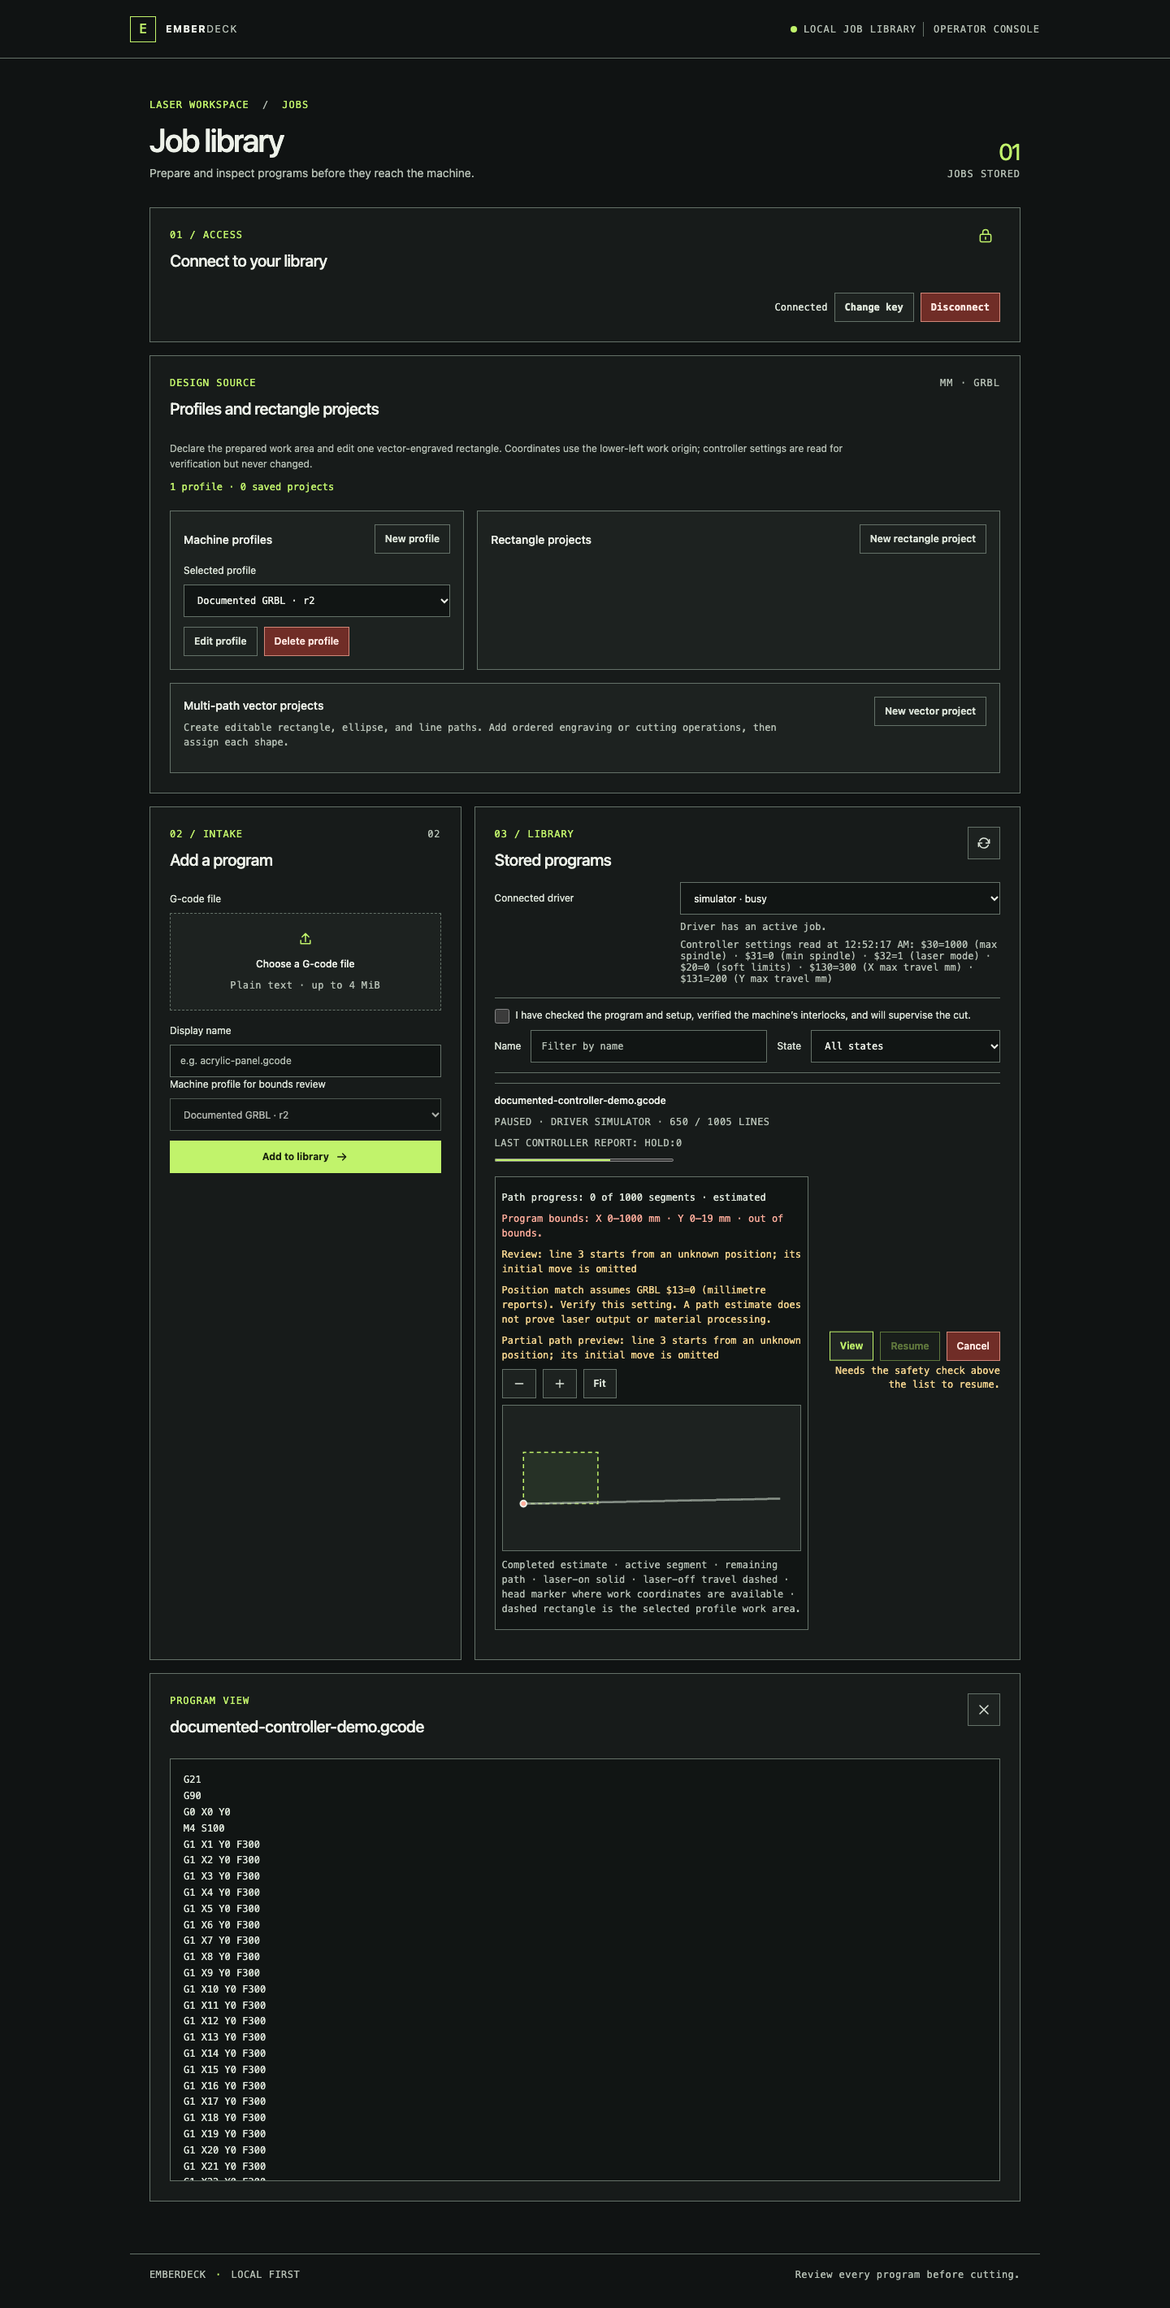
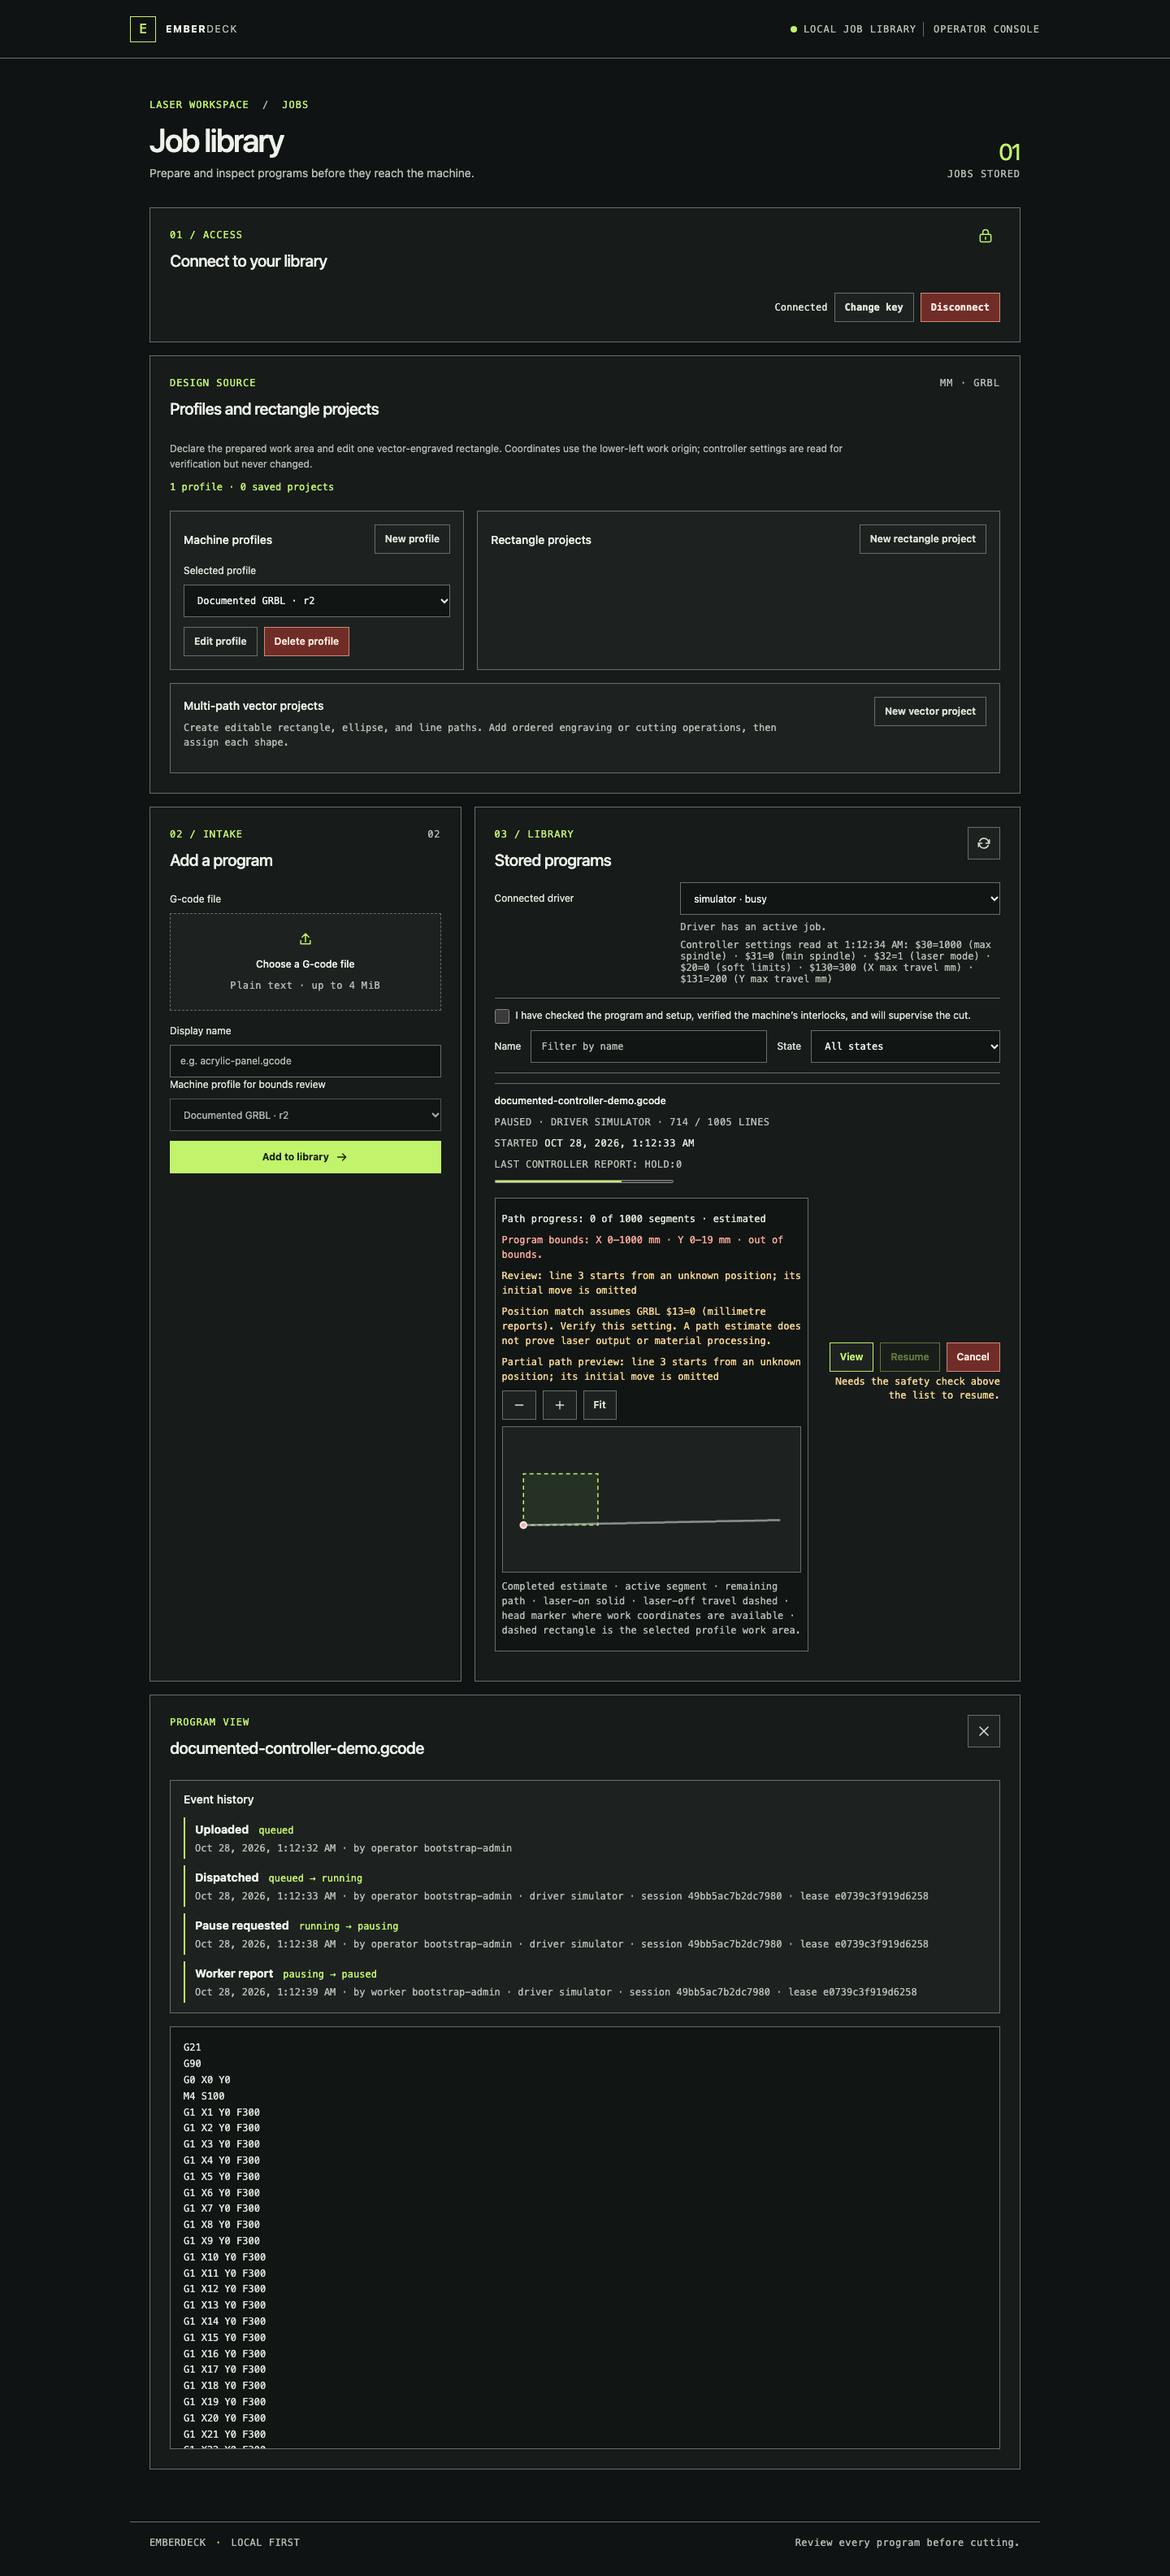
fix: style job history with console design tokens

diff --git a/internal/server/assets/job-history.css b/internal/server/assets/job-history.css
@@ -1,12 +1,14 @@
-.job-times{color:#aab3a7}
-.job-times time{color:var(--text)}
-.job-history{margin:0 0 14px;border:1px solid var(--line);background:#121713;padding:12px 14px}
+/* Job run times and event history. Colours and sizes come only from the
+   semantic tokens defined in style.css :root. */
+.job-times{color:var(--text-muted);font-size:var(--type-xs)}
+.job-times time{color:var(--text-secondary)}
+.job-history{margin:0 0 var(--space-4);border:1px solid var(--border);background:var(--surface-inset);padding:var(--space-3) var(--space-4)}
 .job-history[hidden]{display:none}
-.job-history-title{margin:0 0 10px;font-size:13px;font-weight:500;letter-spacing:.02em}
-.job-history-empty{margin:0;color:var(--muted);font-size:12px}
-.job-history-list{list-style:none;margin:0;padding:0;display:grid;gap:8px}
-.job-history-event{border-left:2px solid var(--green-dark);padding:4px 0 4px 10px;min-width:0}
-.job-history-head{display:flex;flex-wrap:wrap;gap:4px 10px;align-items:baseline;font-size:13px}
-.job-history-states{font-family:var(--mono);font-size:11px;color:var(--green)}
-.job-history-meta{font-family:var(--mono);font-size:10px;color:var(--muted);margin-top:3px;overflow-wrap:anywhere}
-.job-history-detail{margin:4px 0 0;color:var(--red);font-size:12px;overflow-wrap:anywhere}
+.job-history-title{margin:0 0 var(--space-3);font-size:var(--type-sm);font-weight:500;color:var(--text-primary)}
+.job-history-empty{margin:0;color:var(--text-muted);font-size:var(--type-xs)}
+.job-history-list{list-style:none;margin:0;padding:0;display:grid;gap:var(--space-2)}
+.job-history-event{border-left:2px solid var(--accent);padding:var(--space-1) 0 var(--space-1) var(--space-3);min-width:0}
+.job-history-head{display:flex;flex-wrap:wrap;gap:var(--space-1) var(--space-3);align-items:baseline;font-size:var(--type-sm);color:var(--text-primary)}
+.job-history-states{font-family:var(--mono);font-size:var(--type-xs);color:var(--accent)}
+.job-history-meta{font-family:var(--mono);font-size:var(--type-xs);color:var(--text-muted);margin-top:var(--space-1);overflow-wrap:anywhere}
+.job-history-detail{margin:var(--space-1) 0 0;color:var(--danger);font-size:var(--type-xs);overflow-wrap:anywhere}

diff --git a/e2e/job-history.spec.js b/e2e/job-history.spec.js
@@ -61,6 +61,31 @@ test('job list shows run times and the job view shows the event history', async 
   await expect(entries.nth(2)).toContainText('running → completed');
   await expect(entries.nth(2)).toContainText('worker');
 
+  // History styles follow the console token system: no colour literals,
+  // text at least 12 px, and WCAG AA contrast against the painted background.
+  const css = await page.evaluate(async () => (await fetch('/job-history.css')).text());
+  expect([...css.matchAll(/#[\da-f]{3,8}\b|\b(?:rgb|hsl)a?\s*\(/gi)].map(([literal]) => literal)).toEqual([]);
+  const failures = await page.evaluate(() => {
+    const parse = (value) => (value.match(/[\d.]+/g) || [0, 0, 0, 0]).map(Number);
+    const luminance = ([r, g, b]) => [r, g, b].map((v) => v / 255).map((v) => (v <= 0.04045 ? v / 12.92 : ((v + 0.055) / 1.055) ** 2.4)).reduce((sum, v, i) => sum + v * [0.2126, 0.7152, 0.0722][i], 0);
+    const background = (node) => {
+      for (let current = node; current; current = current.parentElement) {
+        const channels = parse(getComputedStyle(current).backgroundColor);
+        if (channels.length === 3 || channels[3] > 0) return channels;
+      }
+      return parse(getComputedStyle(document.body).backgroundColor);
+    };
+    const nodes = [...document.querySelectorAll('#program-history *, .job-times, .job-times *')].filter((node) => [...node.childNodes].some((child) => child.nodeType === 3 && child.textContent.trim()));
+    return nodes.flatMap((node) => {
+      const style = getComputedStyle(node);
+      const [light, dark] = [luminance(parse(style.color)), luminance(background(node))].sort((x, y) => y - x);
+      const contrast = (light + 0.05) / (dark + 0.05);
+      const size = parseFloat(style.fontSize);
+      return contrast < 4.5 || size < 12 ? [`${node.className || node.tagName}: ${contrast.toFixed(2)}:1 at ${size}px`] : [];
+    });
+  });
+  expect(failures).toEqual([]);
+
   // The view shows short opaque references, never a 64-hex lease token.
   await expect(page.locator('#program-history')).not.toContainText(/[0-9a-f]{64}/);
 
